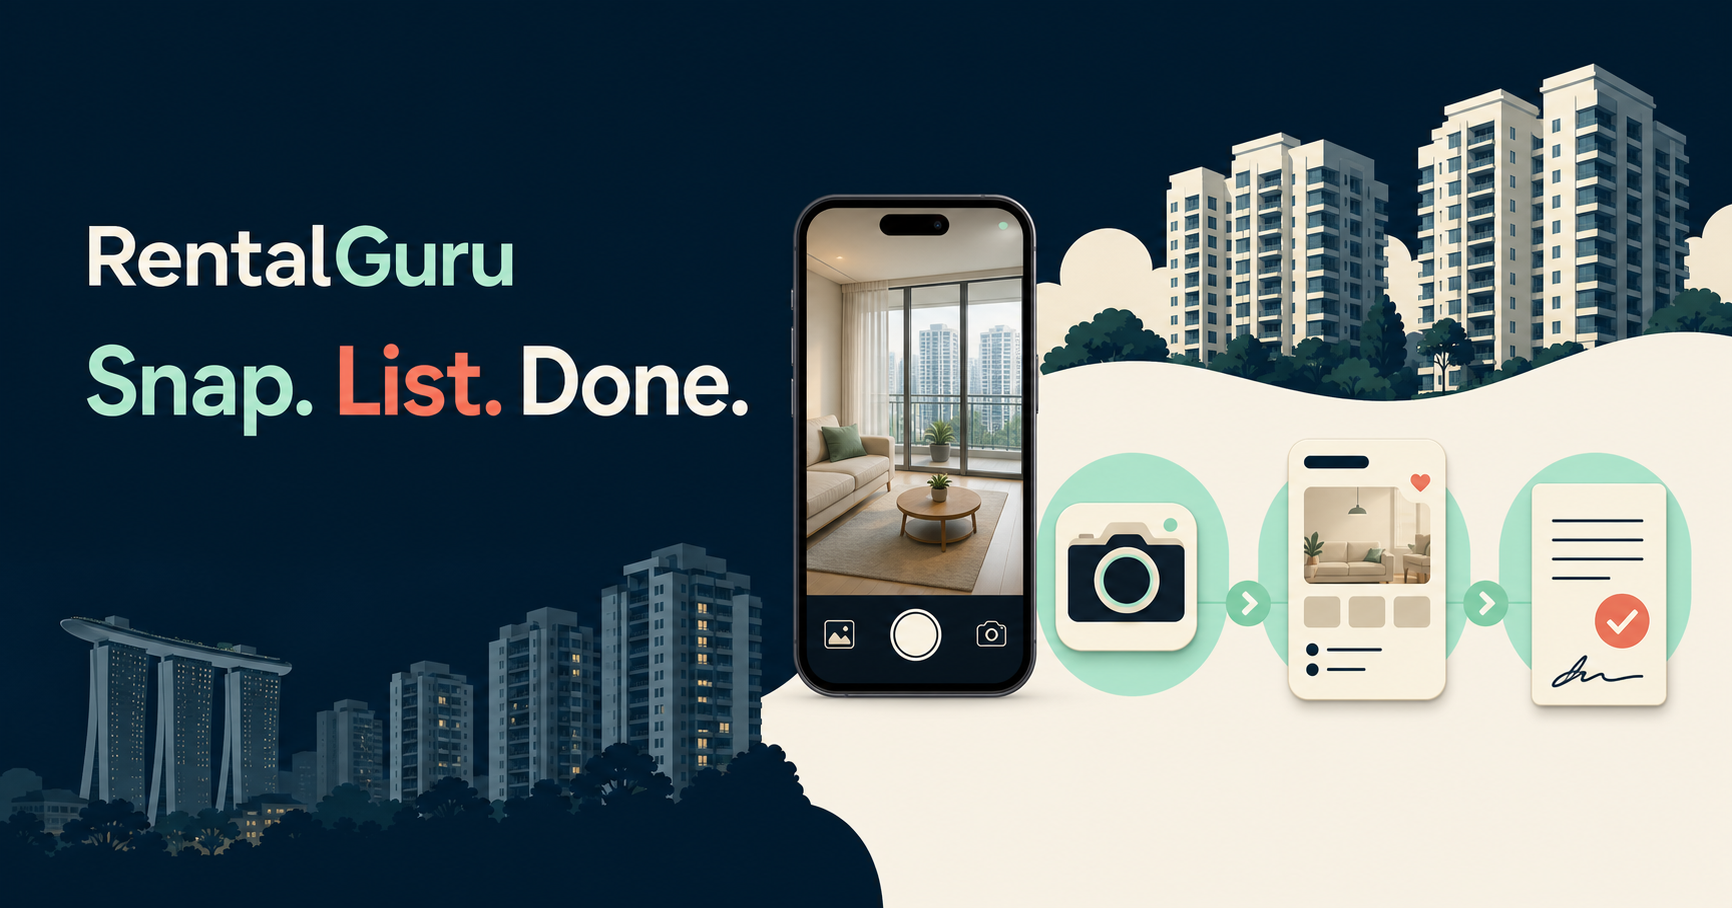
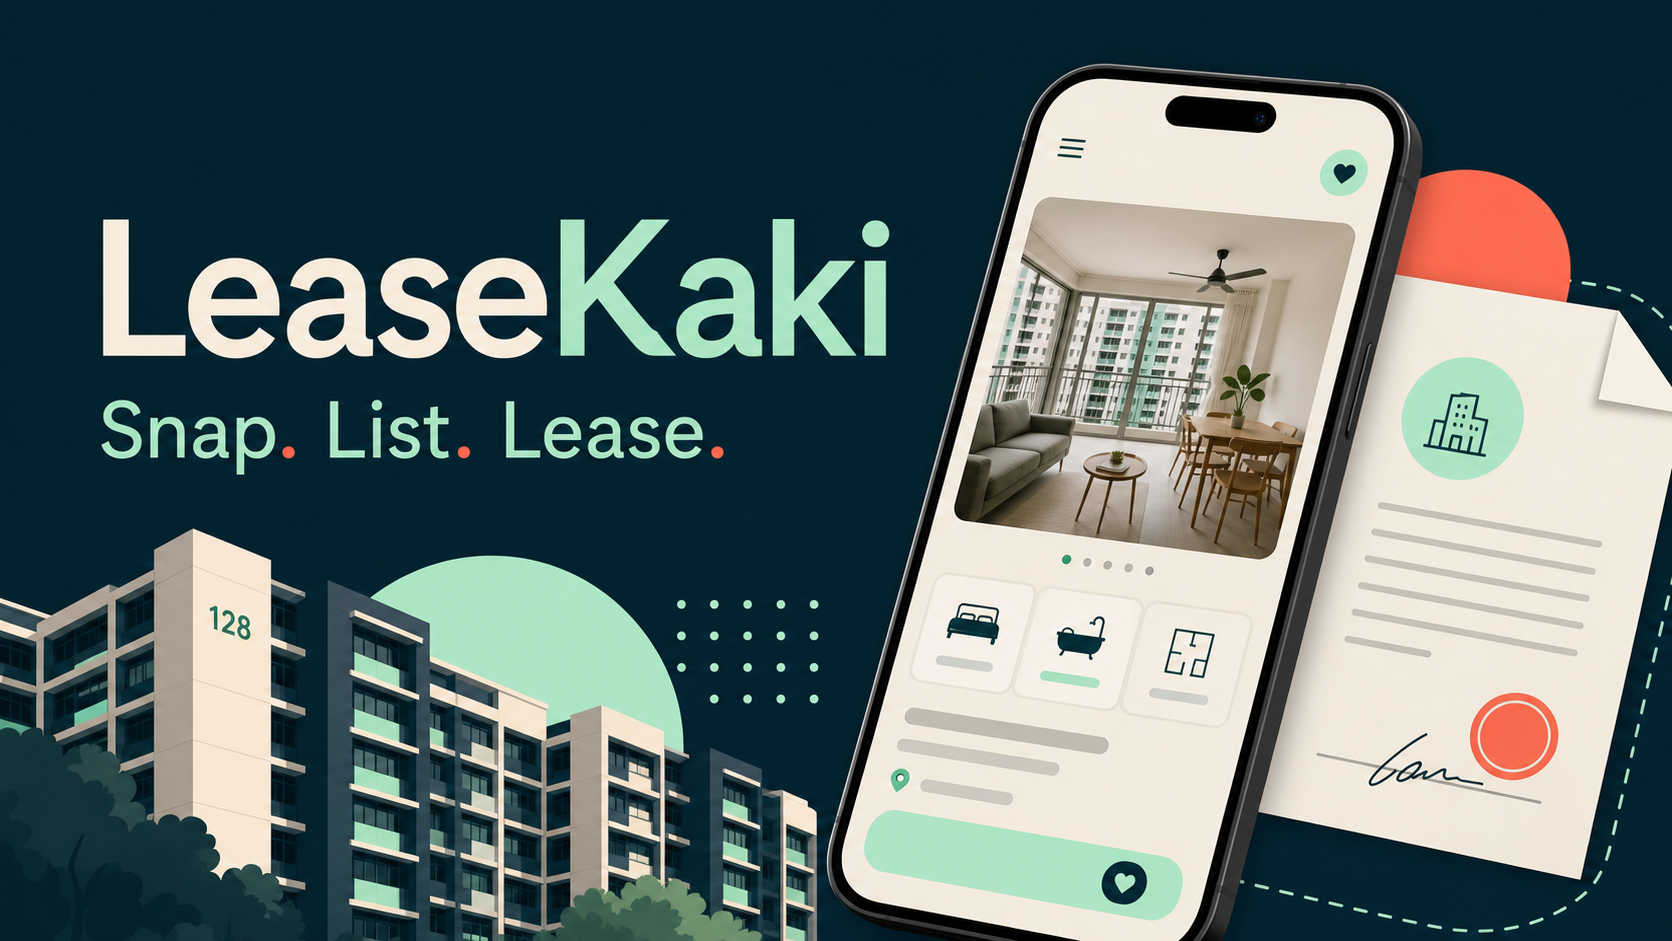
Rebrand prototype to LeaseKaki

diff --git a/app/page.tsx b/app/page.tsx
@@ -133,7 +133,7 @@ export default function Home() {
 
   return (
     <main className="app-shell">
-      <aside className="desktop-rail" aria-label="RentalGuru navigation">
+      <aside className="desktop-rail" aria-label="LeaseKaki navigation">
         <Brand />
         <nav className="rail-nav">
           <NavButton active={mode === "browse"} icon="⌂" label="Explore" onClick={() => switchMode("browse")} />
@@ -143,7 +143,7 @@ export default function Home() {
         <div className="rail-note">
           <span className="eyebrow">FREE PILOT</span>
           <strong>List and transact free for 6 months.</strong>
-          <p>No deposit or rent is collected by RentalGuru.</p>
+          <p>No deposit or rent is collected by LeaseKaki.</p>
         </div>
         <button className="profile-button" type="button">
           <span className="avatar">CW</span>
@@ -231,9 +231,9 @@ export default function Home() {
 
 function Brand() {
   return (
-    <div className="brand" aria-label="RentalGuru">
-      <span className="brand-mark">R</span>
-      <span>Rental<span>Guru</span></span>
+    <div className="brand" aria-label="LeaseKaki">
+      <span className="brand-mark">LK</span>
+      <span>Lease<span>Kaki</span></span>
     </div>
   );
 }
@@ -420,7 +420,7 @@ function ListingFlow({
       <header className="flow-header"><div><span className="eyebrow">OWNER / AUTHORISED AGENT</span><h1>List a home</h1></div><div className="flow-steps"><span className={step !== "capture" ? "done" : "active"}>1</span><i /><span className={step === "draft" ? "active" : step === "preview" || step === "published" ? "done" : ""}>2</span><i /><span className={step === "preview" || step === "published" ? "active" : ""}>3</span></div></header>
       {step === "capture" && (
         <section className="capture-layout">
-          <div className="capture-copy"><span className="pill">AI-ASSISTED</span><h2>Start with the space.<br />We’ll build the listing.</h2><p>Upload a few honest photos. RentalGuru identifies the property details, drafts the copy and estimates a defensible rent range.</p><ul><li><span>1</span>Take or choose 6–10 photos</li><li><span>2</span>Confirm essential property details</li><li><span>3</span>Review before anything goes live</li></ul></div>
+          <div className="capture-copy"><span className="pill">AI-ASSISTED</span><h2>Start with the space.<br />We’ll build the listing.</h2><p>Upload a few honest photos. LeaseKaki identifies the property details, drafts the copy and estimates a defensible rent range.</p><ul><li><span>1</span>Take or choose 6–10 photos</li><li><span>2</span>Confirm essential property details</li><li><span>3</span>Review before anything goes live</li></ul></div>
           <label className="camera-drop">
             <input type="file" accept="image/*" multiple onChange={onPhotos} />
             <span className="camera-target">◎</span>
@@ -462,8 +462,8 @@ function DealsView({ agreementOpen, onAgreement }: { agreementOpen: boolean; onA
       <header className="deal-hero"><span className="eyebrow light">ACTIVE RENTAL</span><h1>Everything after “yes”.</h1><p>Both parties see the same agreed terms, next action and deadline.</p></header>
       <div className="deal-layout">
         <section className="deal-summary"><div className="deal-property"><div className="mini-property sunset"><span className="property-shape"><i /><i /><i /></span></div><div><span className="status-pill">Offer accepted</span><h2>Bishan Street 13</h2><p>$3,700/month · 24 months · starts 1 Sep 2026</p></div></div><div className="progress-label"><span>Transaction progress</span><strong>64%</strong></div><div className="deal-progress"><span /></div><p>Three steps remain before the tenancy is ready for handover.</p></section>
-        <section className="deal-timeline"><DealStep status="done" number="1" title="Viewing completed" meta="17 Jul · 7:00 PM" /><DealStep status="done" number="2" title="Offer accepted" meta="$3,700 · 24 months · 2 occupants" /><div className="deal-step active"><span className="step-number">3</span><div><span className="eyebrow">YOUR ACTION</span><h3>Review tenancy agreement</h3><p>RentalGuru populated the CEA template from both parties’ confirmed answers.</p><button className="button coral" type="button" onClick={onAgreement}>{agreementOpen ? "Close preview" : "Review agreement →"}</button>{agreementOpen && <div className="agreement-preview"><div><strong>Tenancy Agreement</strong><span>Private draft · Version 1</span></div><p><b>Landlord:</b> Alex Tan</p><p><b>Tenant:</b> Jamie Lim</p><p><b>Premises:</b> Bishan Street 13, exact unit protected</p><p><b>Term:</b> 1 Sep 2026 to 31 Aug 2028</p><p><b>Rent:</b> $3,700 per calendar month</p><label><input type="checkbox" /> I have reviewed the confirmed commercial terms.</label><button className="button dark wide" type="button">Proceed to sign</button></div>}</div></div><DealStep status="locked" number="4" title="Sign agreement" meta="Draw or type signature with audit trail" /><DealStep status="locked" number="5" title="Stamp with IRAS" meta="Guided checklist after signing" /></section>
-        <aside className="deal-side"><span className="eyebrow">SHARED DEAL ROOM</span><h3>Alex ↔ Jamie</h3><div className="deal-message"><span className="avatar small">AL</span><p>I've confirmed the agreed repair clause. Ready for your review.</p></div><div className="deal-message mine"><span className="avatar small">JL</span><p>Thanks—I'll review the agreement tonight.</p></div><div className="message-input"><input placeholder="Message both parties" /><button type="button">Send</button></div><p className="safe-note">Payments go directly to the property owner, never through RentalGuru.</p></aside>
+        <section className="deal-timeline"><DealStep status="done" number="1" title="Viewing completed" meta="17 Jul · 7:00 PM" /><DealStep status="done" number="2" title="Offer accepted" meta="$3,700 · 24 months · 2 occupants" /><div className="deal-step active"><span className="step-number">3</span><div><span className="eyebrow">YOUR ACTION</span><h3>Review tenancy agreement</h3><p>LeaseKaki populated the CEA template from both parties’ confirmed answers.</p><button className="button coral" type="button" onClick={onAgreement}>{agreementOpen ? "Close preview" : "Review agreement →"}</button>{agreementOpen && <div className="agreement-preview"><div><strong>Tenancy Agreement</strong><span>Private draft · Version 1</span></div><p><b>Landlord:</b> Alex Tan</p><p><b>Tenant:</b> Jamie Lim</p><p><b>Premises:</b> Bishan Street 13, exact unit protected</p><p><b>Term:</b> 1 Sep 2026 to 31 Aug 2028</p><p><b>Rent:</b> $3,700 per calendar month</p><label><input type="checkbox" /> I have reviewed the confirmed commercial terms.</label><button className="button dark wide" type="button">Proceed to sign</button></div>}</div></div><DealStep status="locked" number="4" title="Sign agreement" meta="Draw or type signature with audit trail" /><DealStep status="locked" number="5" title="Stamp with IRAS" meta="Guided checklist after signing" /></section>
+        <aside className="deal-side"><span className="eyebrow">SHARED DEAL ROOM</span><h3>Alex ↔ Jamie</h3><div className="deal-message"><span className="avatar small">AL</span><p>I've confirmed the agreed repair clause. Ready for your review.</p></div><div className="deal-message mine"><span className="avatar small">JL</span><p>Thanks—I'll review the agreement tonight.</p></div><div className="message-input"><input placeholder="Message both parties" /><button type="button">Send</button></div><p className="safe-note">Payments go directly to the property owner, never through LeaseKaki.</p></aside>
       </div>
     </div>
   );

diff --git a/app/layout.tsx b/app/layout.tsx
@@ -16,18 +16,18 @@ export async function generateMetadata(): Promise<Metadata> {
 
   return {
     metadataBase: new URL(origin),
-    title: "RentalGuru — Singapore rentals, simplified",
-    description: "Snap, list and complete a Singapore rental with every next step handled in one place.",
+    title: "LeaseKaki — Singapore rentals, simplified",
+    description: "Snap, list and complete a Singapore lease with every next step handled in one place.",
     openGraph: {
-      title: "RentalGuru — Snap. List. Done.",
-      description: "The fastest way to list and complete a Singapore rental.",
+      title: "LeaseKaki — Snap. List. Lease.",
+      description: "The fastest way to list and complete a Singapore lease.",
       type: "website",
-      images: [{ url: `${origin}/og.png`, width: 1732, height: 908, alt: "RentalGuru — Snap. List. Done." }],
+      images: [{ url: `${origin}/og.png`, width: 1672, height: 941, alt: "LeaseKaki — Snap. List. Lease." }],
     },
     twitter: {
       card: "summary_large_image",
-      title: "RentalGuru — Snap. List. Done.",
-      description: "The fastest way to list and complete a Singapore rental.",
+      title: "LeaseKaki — Snap. List. Lease.",
+      description: "The fastest way to list and complete a Singapore lease.",
       images: [`${origin}/og.png`],
     },
   };

diff --git a/app/globals.css b/app/globals.css
@@ -25,7 +25,7 @@ button:focus-visible, input:focus-visible, select:focus-visible { outline: 3px s
 .desktop-rail { min-height: 100vh; position: sticky; top: 0; height: 100vh; padding: 28px 20px 20px; background: var(--ink); color: white; display: flex; flex-direction: column; gap: 34px; }
 .brand { display: flex; align-items: center; gap: 10px; font-size: 20px; font-weight: 700; letter-spacing: -.04em; }
 .brand > span:last-child > span { color: var(--coral); }
-.brand-mark { width: 34px; height: 34px; border-radius: 11px 11px 11px 4px; display: grid; place-items: center; background: var(--mint); color: var(--ink); font-weight: 800; }
+.brand-mark { width: 34px; height: 34px; border-radius: 11px 11px 11px 4px; display: grid; place-items: center; background: var(--mint); color: var(--ink); font-size: 11px; font-weight: 800; }
 .rail-nav { display: grid; gap: 8px; }
 .nav-button { border: 0; background: transparent; color: inherit; display: flex; align-items: center; gap: 12px; padding: 12px 14px; border-radius: 14px; cursor: pointer; font-weight: 600; opacity: .66; }
 .nav-button:hover { opacity: 1; background: rgba(255,255,255,.06); }